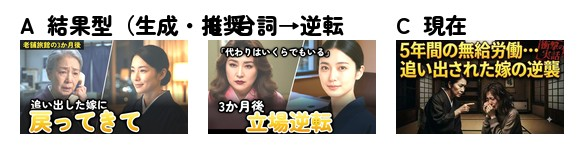
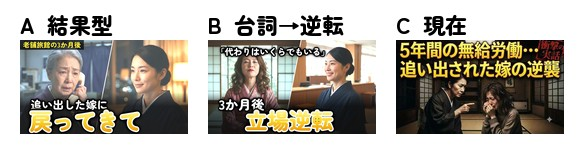
旅館 썸네일 B2(고니감독님 생성 그림 + 立場逆転) + 최종 비교 시트 갱신
Claude-Session: https://claude.ai/code/session_012dfS4EinBfMKeRM34zU83f

Changed region(s): [[0.339, 0.2597, 0.6473, 0.8831], [0.2158, 0.0779, 0.4315, 0.2338]]

diff --git a/scripts/make_thumbnails_refresh.py b/scripts/make_thumbnails_refresh.py
@@ -205,7 +205,15 @@ def ryokan_gen(src):
     gen = erase_mark(full(f("gen_A.jpg"), bright=1.46, contrast=1.04, sat=1.06, lift=54))
     R = panel(f("S18f.png"), 980, 560, 1.05, W, H, bright=1.28, contrast=1.02, sat=1.12, warm=6, lift=36)
     gen_l = Image.new("RGB", (W, H)); gen_l.paste(gen, (0, 0))
-    out["A3"] = ryokan_text_A(halves(gen_l, R, 480, 980) if False else split2(gen_l, shift_to(R, 980, 1440)))
+    out["A3"] = ryokan_text_A(split2(gen_l, shift_to(R, 980, 1440)))
+    # B2: 고니감독님 생성 그림(팔짱 낀 小姑 + 프런트에서 웃는 若菜) + B 글자
+    if os.path.exists(f("gen_B.jpg")):
+        img = erase_mark(full(f("gen_B.jpg"), bright=1.22, contrast=1.04, sat=1.08, lift=40)).convert("RGBA")
+        shade_bottom(img, 600, 160)
+        put(img, glow(text_layer("「代わりはいくらでもいる」", 100, stroke_w=11)), 20, 18)
+        put(img, glow(text_layer("3か月後", 150, stroke_w=12)), 50, 600)
+        put(img, glow(text_layer("立場逆転", 250, gradient=GOLD, stroke=(255, 255, 255), stroke_w=15, outer=(0, 0, 0), outer_w=12), r=24), 330, 712)
+        out["B2"] = img
     return out
 
 
